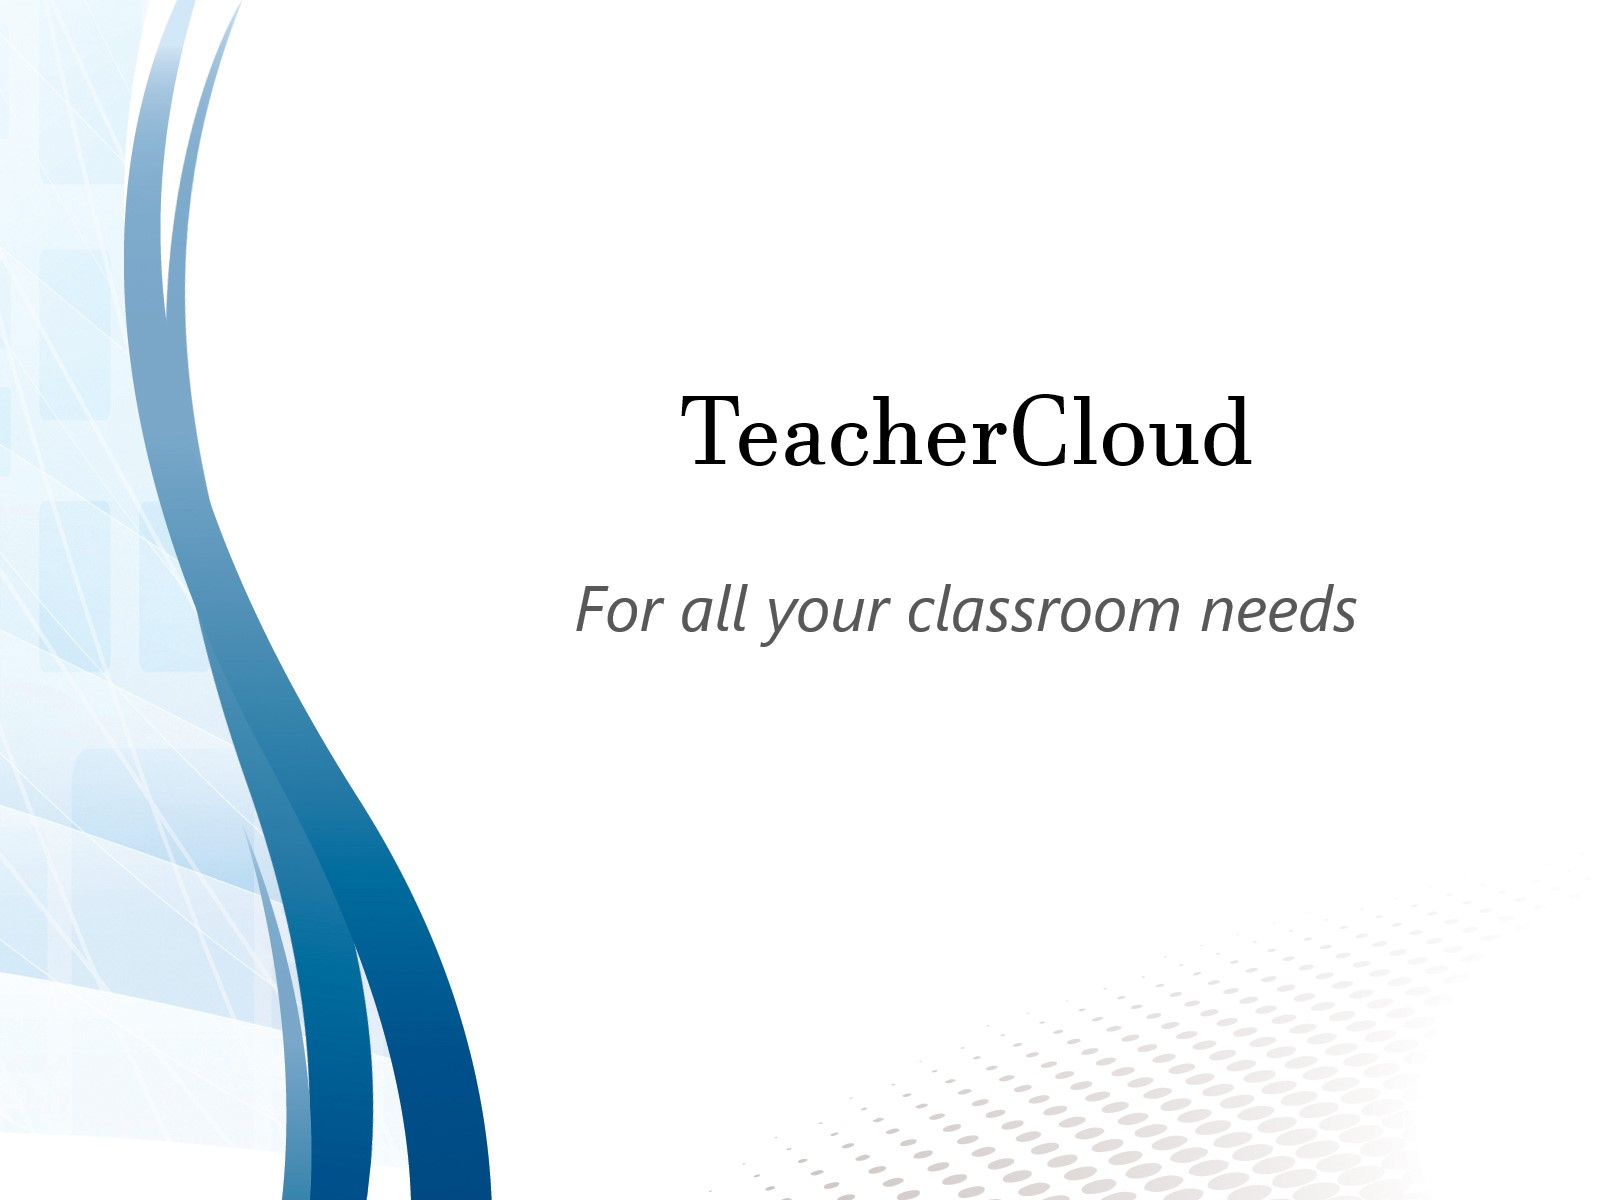
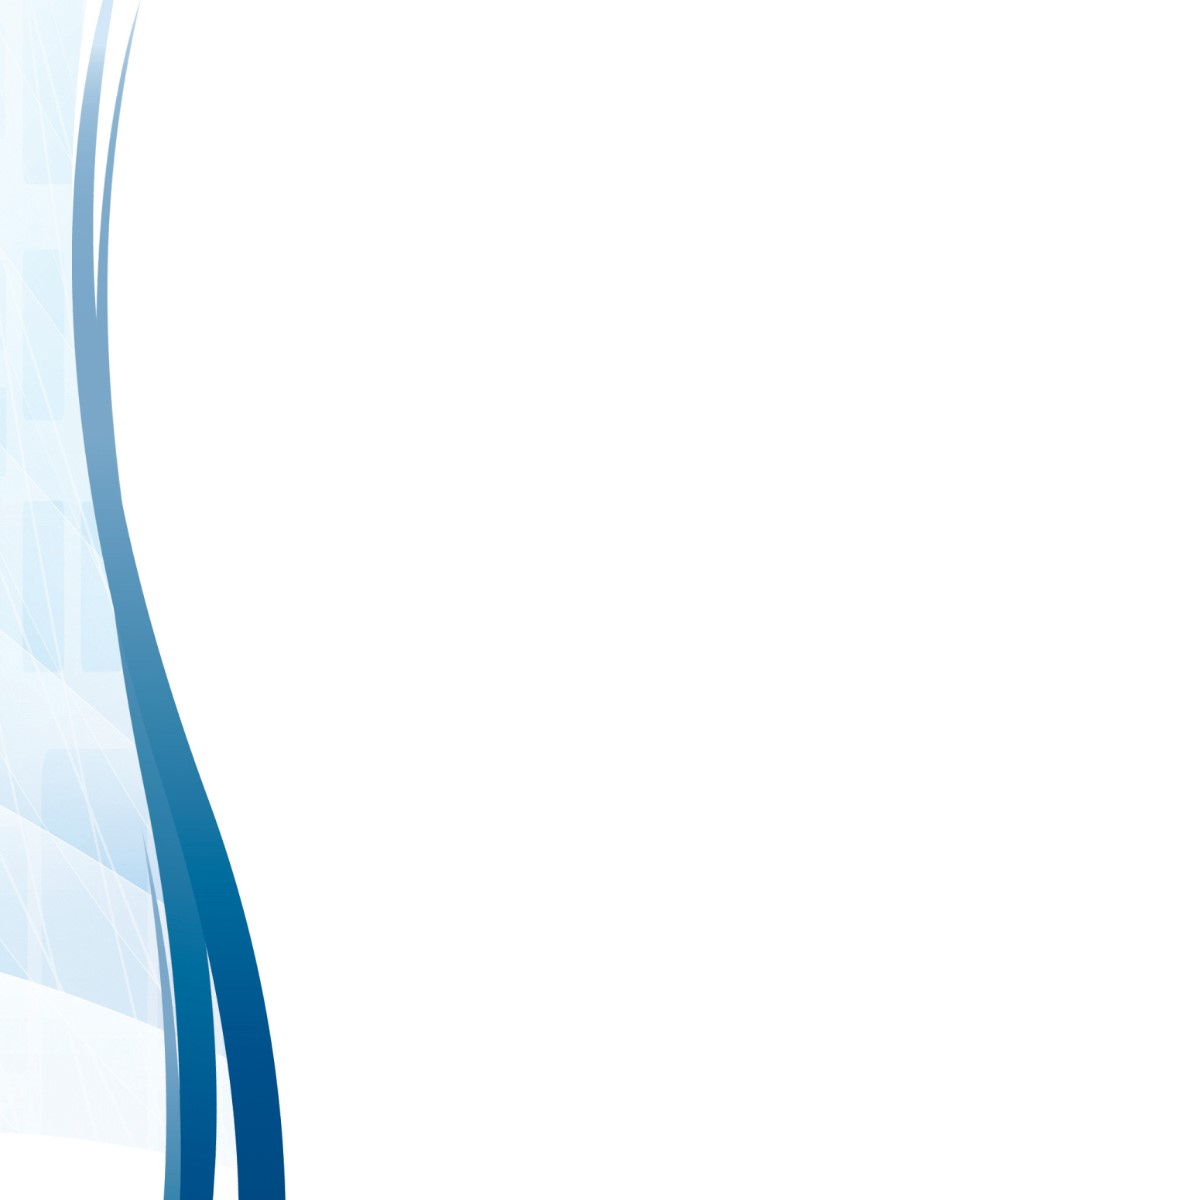
fixed home page

diff --git a/static/styles.css b/static/styles.css
@@ -14,12 +14,28 @@ text-align: center;
 font-family: 'Vidaloka', serif;
 }
 
-img{
-float: left;
-width: 900px;
-height: 750px;
+#blurb{
+position: fixed;
 max-width: 100%;
-max-height: 100%;
+height: auto;
+}
+
+@media screen and (max-width: 991px) {
+    #blurb {
+      display: none;
+    }
+    #text {
+        display: none;
+    }
+  }
+
+#text {
+float: left;
+position: fixed;
+top: 300px;
+left: 100px;
+max-width: 100%;
+height: auto;
 }
 
 .clearfix {
@@ -27,13 +43,12 @@ max-height: 100%;
 }
 
 #wrapper{
-margin-left: auto;
-margin-right: auto;
-
+    max-width: 100%;
+    height: auto;
 }
 
 #register{
-position: relative;
+position: sticky;
 }
 
 .description{
@@ -56,7 +71,7 @@ padding: 10px;
 }
 
 .search_input{
-color: rgb(0, 0, 0);
+color: rgb(255, 255, 255);
 border: 0;
 outline: 0;
 background: none;
@@ -69,7 +84,7 @@ transition: width 0.4s linear;
 .searchbar:hover > .search_input{
 padding: 0 10px;
 width: 450px;
-caret-color:rgb(0, 0, 0);
+caret-color:rgb(255, 255, 255);
 transition: width 0.4s linear;
 }
 

diff --git a/templates/home.html b/templates/home.html
@@ -2,7 +2,9 @@
 
 {%block content%}
 
-    <img src="static/blurb.jpg">
+
+<img id="blurb" src="static/blurb.jpg">
+<img id="text" src="static/text.png">
 
     <div id ="wrapper">
     <form id ="register">
